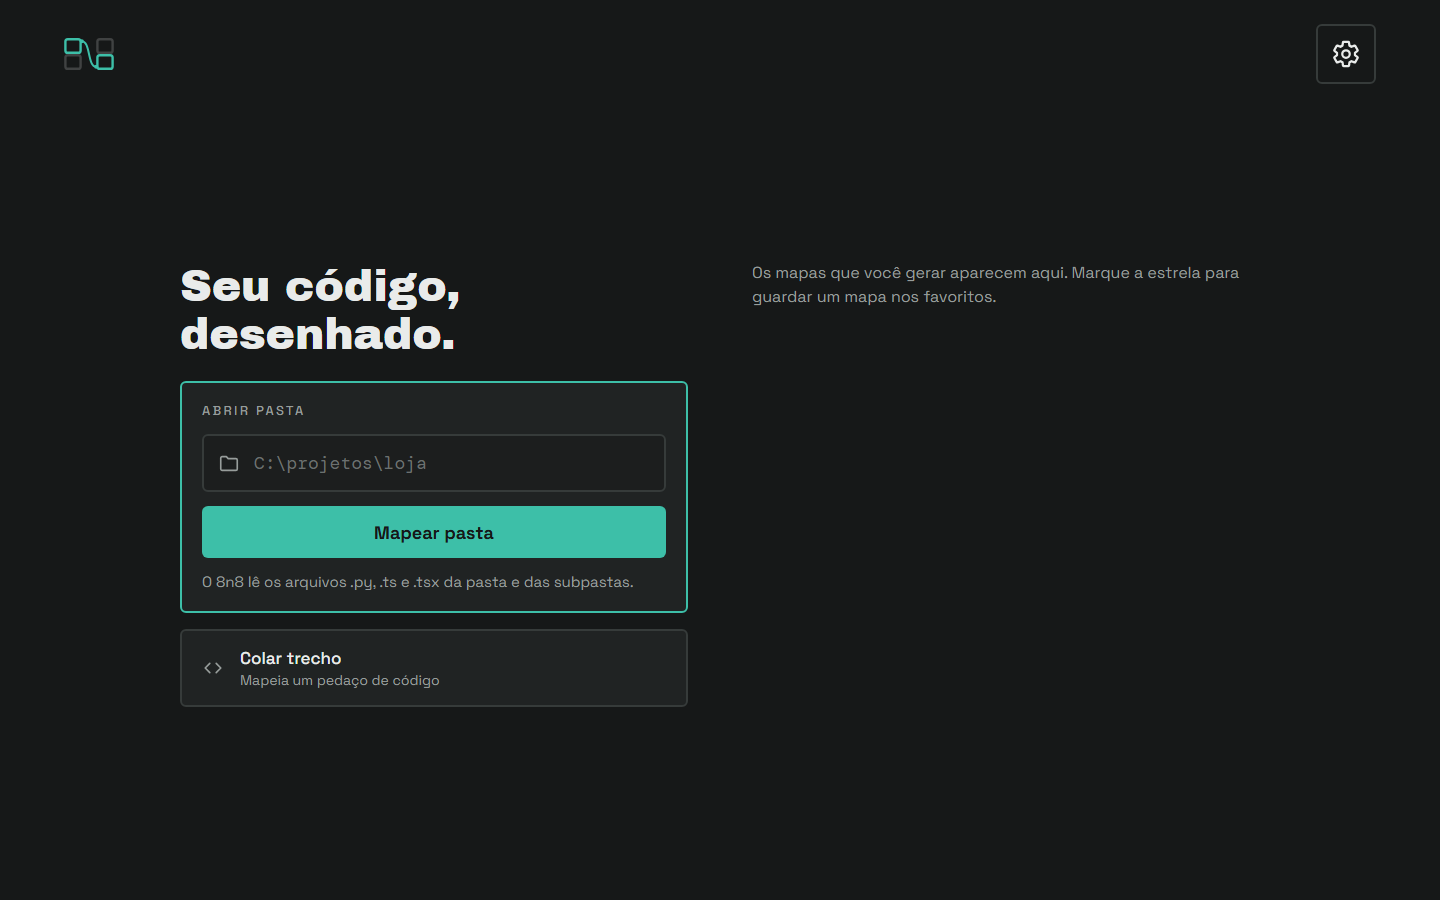
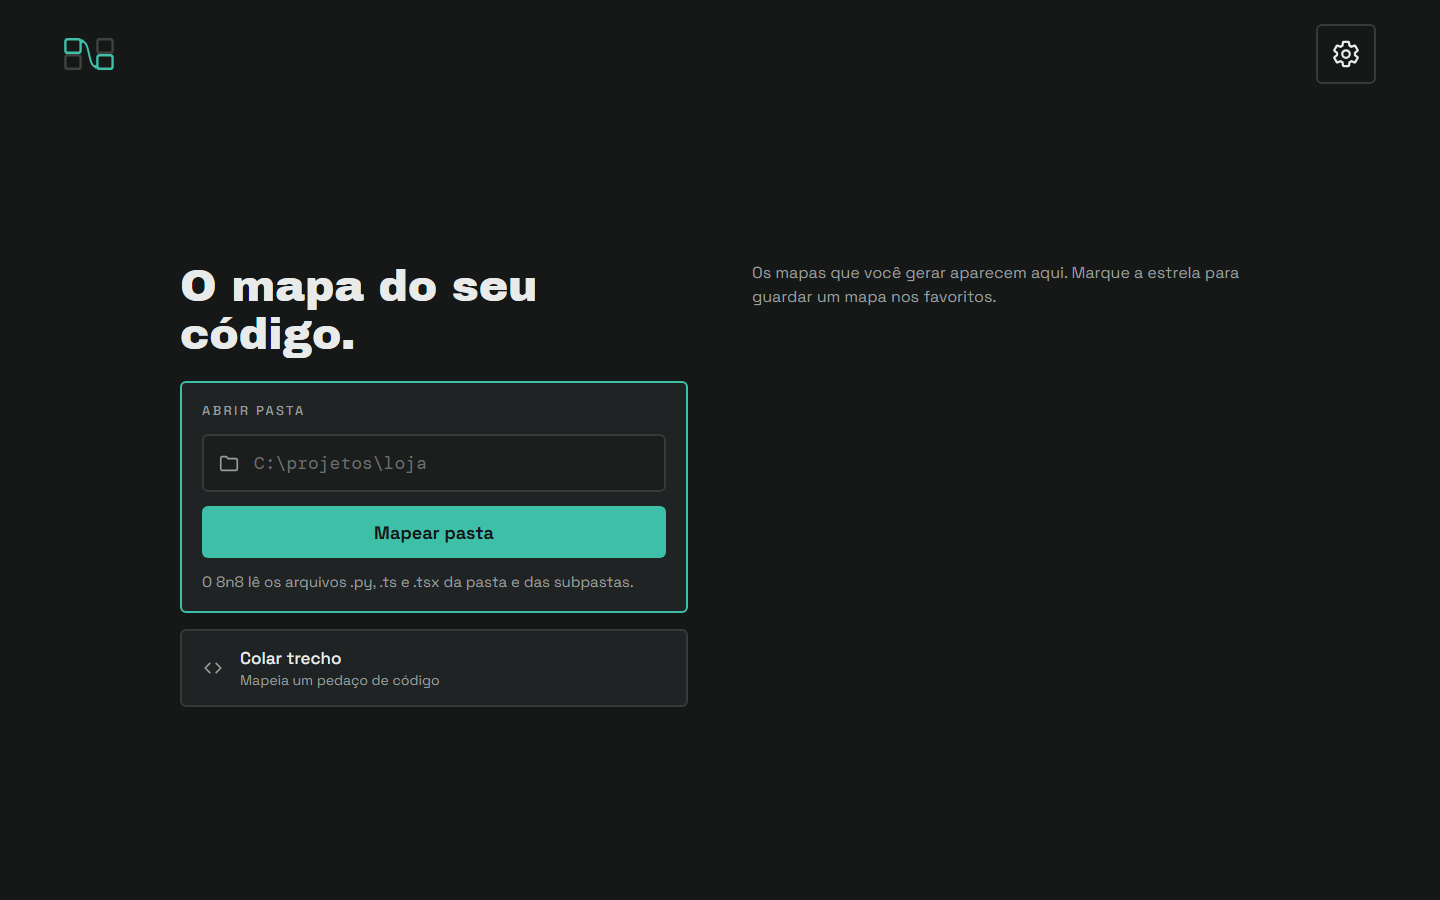
docs: troca o slogan para "O mapa do seu código" e chama o produto de diagrama de fluxo hierárquico
Atualiza o manual de marca, o título da tela inicial, o CLAUDE.md e as imagens do README.

Changed region(s): [[0.125, 0.28, 0.375, 0.4044]]

diff --git a/docs/marca/manual.html b/docs/marca/manual.html
@@ -384,7 +384,7 @@ html { scroll-behavior: smooth; }
         <circle cx="80" cy="72" r="5" fill="var(--logo-n)"/>
       </svg>
       <div class="slogan">
-        <p class="tag">Seu código, <b>desenhado</b>.</p>
+        <p class="tag">O <b>mapa</b> do seu código.</p>
       </div>
       <dl>
         <div><dt>Escrita</dt><dd>8n8</dd></div>
@@ -399,7 +399,7 @@ html { scroll-behavior: smooth; }
         <p class="eyebrow">Essência</p>
         <h2 id="h-essencia">O que o 8n8 é</h2>
       </div>
-      <p class="lead">O 8n8 lê um código e desenha esse código como um grafo: nós ligados por arestas. Você começa na vista ampla. Depois, abre um nó para ver o fluxo interno dele e desce até as linhas reais.</p>
+      <p class="lead">O 8n8 lê um código e desenha esse código como um diagrama de fluxo hierárquico: nós ligados por arestas. Você começa na vista ampla. Depois, abre um nó para ver o fluxo interno dele e desce até as linhas reais.</p>
       <p>O 8n8 é para quem precisa supervisionar código, muitas vezes escrito por IA, sem ler linha por linha. A ideia de nós ligados por arestas veio do n8n, que serviu de inspiração.</p>
 
       <p class="promise">Todo nó leva de volta à linha.</p>
@@ -410,7 +410,7 @@ html { scroll-behavior: smooth; }
           <p class="muted">O 8n8 se inspira no n8n. O n8n monta automações a partir de nós. O 8n8 faz o caminho contrário: lê um código pronto e desenha os nós dele. Por isso o nome inverte o n8n. Apesar da brincadeira com o nome, os dois produtos não têm nenhuma relação.</p>
           <h3>O nome</h3>
           <p class="muted">Escreva sempre <code>8n8</code>: minúsculo, sem espaço, sem hífen. Nunca escreva "8N8", "8-n-8" ou "Eight".</p>
-          <p class="muted">O slogan é <b>Seu código, desenhado.</b> Ele diz o propósito do 8n8: transformar o código em desenho para que ele fique simples de entender.</p>
+          <p class="muted">O slogan é <b>O mapa do seu código.</b> Ele diz o que o 8n8 entrega: um mapa do código, com vista ampla e níveis que você abre, para ficar simples de entender.</p>
         </div>
         <div class="head">
           <h3>A escada de níveis</h3>
@@ -802,7 +802,7 @@ html { scroll-behavior: smooth; }
 
     <footer>
       <span>8n8 · manual da marca · v0.2</span>
-      <span>Seu código, desenhado.</span>
+      <span>O mapa do seu código.</span>
     </footer>
   </main>
 </div>

diff --git a/apps/ui/src/home/Home.tsx b/apps/ui/src/home/Home.tsx
@@ -149,7 +149,7 @@ export function Home({
   return (
     <div className="home-grid">
       <div className="home-start">
-        <p className="home-title">Seu código, desenhado.</p>
+        <p className="home-title">O mapa do seu código.</p>
         <form
           className="home-card home-folder"
           aria-label="Abrir pasta"

diff --git a/CLAUDE.md b/CLAUDE.md
@@ -6,7 +6,7 @@ Não é migração para n8n. Do n8n só vem o modelo mental.
 
 ## Princípios do produto
 
-- Um único grafo hierárquico (repositório → módulo → arquivo → função → bloco), desenhado como fluxo de nós e arestas.
+- Um único diagrama de fluxo hierárquico (repositório → módulo → arquivo → função → bloco), desenhado como nós e arestas.
 - A estrutura vem de parsing determinístico (Tree-sitter, um plugin por linguagem: Python e TypeScript), nunca de LLM. O LLM só escreve resumos e sugestões, sempre apontando o nó e a linha de origem.
 - Todo nó leva de volta ao código real (arquivo e linhas).
 - O objetivo é supervisionar e entender rápido um código, muitas vezes escrito por IA, e não ler linha por linha.
